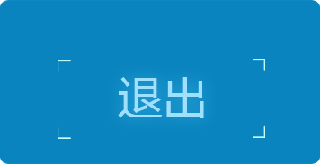
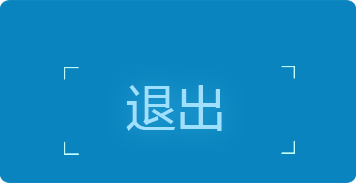
添加了统一的消息窗口

diff --git a/SmartCabinet/Cabinet/cabinetwidget.cpp b/SmartCabinet/Cabinet/cabinetwidget.cpp
@@ -8,6 +8,7 @@
 #include "funcs/systool.h"
 #include "defines.h"
 #include "iconfont/iconhelper.h"
+#include "MessageDialog.h"
 
 //提示信息
 
@@ -1189,46 +1190,12 @@ void CabinetWidget::searchByPinyin(QString str)
     setSearchState(l_search);
 }
 
-void CabinetWidget::warningMsgBox(QString title, QString msg)
-{
-    QMessageBox* box = new QMessageBox(QMessageBox::NoIcon, title, msg,QMessageBox::Ok,NULL,
-           Qt::Dialog|Qt::MSWindowsFixedSizeDialogHint|Qt::WindowStaysOnTopHint);
-    box->setModal(true);
-    box->exec();
-    box->deleteLater();
-}
 
 void CabinetWidget::msgClear()
 {
-    if(msgBox != NULL)
-    {
-        msgBox->close();
-        msgBox->deleteLater();
-        msgBox = NULL;
-    }
+    MessageDialog::instance().showFinish();
 }
 
-void CabinetWidget::msgShow(QString title, QString msg, bool setmodal)
-{
-    msgClear();
-
-    if(setmodal)
-    {
-        msgBox = new QMessageBox(QMessageBox::NoIcon, title, msg,QMessageBox::Ok,NULL,
-                                 Qt::Dialog|Qt::MSWindowsFixedSizeDialogHint|Qt::WindowStaysOnTopHint);
-        msgBox->setModal(true);
-        msgBox->exec();
-        msgClear();
-    }
-    else
-    {
-        msgBox = new QMessageBox(QMessageBox::NoIcon, title, msg,QMessageBox::Ok,NULL,
-                                 Qt::Dialog|Qt::MSWindowsFixedSizeDialogHint|Qt::WindowStaysOnTopHint);
-        msgBox->setModal(false);
-        msgBox->show();
-    }
-    QTimer::singleShot(10000, this, SLOT(msgClear()));
-}
 /*
 |补货|退货|服务|退出|
 */
@@ -1415,7 +1382,8 @@ void CabinetWidget::recvUserInfo(QByteArray qba)
         return;
     }
 
-    msgShow("身份验证", "身份验证中...",false);
+    MessageDialog::instance().showMessage("身份验证中...", 10);
+//    msgShow("身份验证", "身份验证中...",false);
     emit requireUserCheck(QString(qba));
 
 //        setPowerState(0);

diff --git a/SmartCabinet/MessageDialog.cpp b/SmartCabinet/MessageDialog.cpp
@@ -1,0 +1,67 @@
+#include "MessageDialog.h"
+#include "ui_MessageDialog.h"
+#include <QTimer>
+
+MessageDialog::MessageDialog(QWidget *parent) :
+    QDialog(parent),
+    ui(new Ui::MessageDialog)
+{
+    ui->setupUi(this);
+    this->setWindowFlags(Qt::FramelessWindowHint);
+}
+
+MessageDialog::~MessageDialog()
+{
+    delete ui;
+}
+
+/**
+ * @brief MessageDialog::showFinish 显示完成
+ */
+void MessageDialog::showFinish()
+{
+    downCount = 0;
+    curCount = 0;
+    this->hide();
+    killTimer(timerId);
+}
+
+/**
+ * @brief MessageDialog::showMessage
+ * @param msg   需要显示的消息
+ * @param showS 显示时间，单位秒,0表示不使用倒计时
+ */
+void MessageDialog::showMessage(QString msg, int showS)
+{
+    ui->lab_msg->setText(QString("%1(%2)").arg(msg).arg(showS));
+    this->showMaximized();
+    curCount = showS;
+    downCount = showS;
+}
+
+void MessageDialog::paintEvent(QPaintEvent*)
+{
+    QStyleOption opt;
+    opt.init(this);
+    QPainter p(this);
+    style()->drawPrimitive(QStyle::PE_Widget, &opt, &p, this);
+}
+
+void MessageDialog::timerEvent(QTimerEvent *)
+{
+    curCount--;
+    if(curCount <= 0 && downCount)//倒计时被启动且小于等于0
+    {
+        showFinish();
+    }
+}
+
+void MessageDialog::showEvent(QShowEvent *)
+{
+    timerId = startTimer(1000);
+}
+
+void MessageDialog::on_close_clicked()
+{
+    showFinish();
+}

diff --git a/SmartCabinet/cabinetserver.cpp b/SmartCabinet/cabinetserver.cpp
@@ -104,7 +104,7 @@ CabinetServer::CabinetServer(QObject *parent) : QObject(parent)
     fWatchdog = -1;
     checkId = -1;
 #ifndef SIMULATE_ON
-//    watchdogStart();
+    watchdogStart();
 #endif
     connect(&tarProcess, SIGNAL(finished(int)), this, SLOT(tarFinished(int)));
     connect(&tarProcess, SIGNAL(readyReadStandardOutput()), this, SLOT(processStandardOutput()));
@@ -2324,13 +2324,13 @@ void CabinetServer::recvGoodsReply()
 
 void CabinetServer::recvDayReportInfo()
 {
-//    QByteArray qba = QByteArray::fromBase64(reply_day_report->readAll());
-    QFile testFile("/home/dayreport.test");
-    if(!testFile.open(QFile::ReadOnly))
-    {
-        qDebug("day report open failed");
-    }
-    QByteArray qba = testFile.readAll();
+    QByteArray qba = QByteArray::fromBase64(reply_day_report->readAll());
+//    QFile testFile("/home/dayreport.test");
+//    if(!testFile.open(QFile::ReadOnly))
+//    {
+//        qDebug("day report open failed");
+//    }
+//    QByteArray qba = testFile.readAll();
     reply_day_report->deleteLater();
     reply_day_report = NULL;
     cJSON* json = cJSON_Parse(qba.data());

diff --git a/SmartCabinet/Widgets/checktable.cpp b/SmartCabinet/Widgets/checktable.cpp
@@ -82,6 +82,7 @@ void CheckTable::showEvent(QShowEvent *)
 
 void CheckTable::setCheckTables(QStringList l)
 {
+    ui->list_table_id->horizontalHeader()->setSortIndicator(-1, Qt::AscendingOrder);
     ui->list_table_id->clearContents();
     ui->list_table_id->setRowCount(l.count());
     ui->list_table_id->setColumnCount(1);
@@ -96,6 +97,7 @@ void CheckTable::setCheckTables(QStringList l)
 //物品名 编号 规格 入柜 出柜 退货 库存
 void CheckTable::setCurCheckTable(CheckList *l)
 {
+    ui->list_table->horizontalHeader()->setSortIndicator(-1, Qt::AscendingOrder);
     ui->list_table->clearContents();
     ui->list_table->setColumnCount(7);
     ui->list_table->setRowCount(l->listInfo.count());
@@ -148,6 +150,7 @@ void CheckTable::on_list_table_id_cellClicked(int row, int)
     if(row > listCheckTables.count())
         return;
 
+    ui->list_table->horizontalHeader()->setSortIndicator(-1, Qt::AscendingOrder);
     ui->list_table->clearContents();
     ui->list_table->setRowCount(0);
     emit askCheckInfo(listCheckTables.at(row)->id);

diff --git a/SmartCabinet/MessageDialog.h b/SmartCabinet/MessageDialog.h
@@ -1,0 +1,44 @@
+#ifndef MESSAGEDIALOG_H
+#define MESSAGEDIALOG_H
+
+#include <QDialog>
+#include <QPaintEvent>
+#include <QTimerEvent>
+#include <QShowEvent>
+#include <QPainter>
+#include <QString>
+#include <manager/singleton.h>
+
+namespace Ui {
+class MessageDialog;
+}
+
+class MessageDialog : public QDialog, public Singleton<MessageDialog>
+{
+    Q_OBJECT
+    friend class Singleton<MessageDialog>;
+
+public:
+    void showMessage(QString msg, int showS=0);
+    void showFinish();
+
+protected:
+    void paintEvent(QPaintEvent *);
+    void timerEvent(QTimerEvent* e);
+    void showEvent(QShowEvent*);
+
+
+private slots:
+    void on_close_clicked();
+
+private:
+    Ui::MessageDialog *ui;
+    explicit MessageDialog(QWidget *parent = nullptr);
+    ~MessageDialog();
+
+    int timerId;
+    int curCount;
+    int downCount;
+};
+
+#endif // MESSAGEDIALOG_H

diff --git a/SmartCabinet/Cabinet/cabinetwidget.h b/SmartCabinet/Cabinet/cabinetwidget.h
@@ -212,8 +212,6 @@ private:
     void showEvent(QShowEvent*);
     void updateShowMap();
     void hideAllShowMap();
-    void warningMsgBox(QString title, QString msg);
-    void msgShow(QString title, QString msg, bool setmodal);
     void setPowerState(int power);//设置权限状态
     void paintEvent(QPaintEvent *);
     void cabLock();
